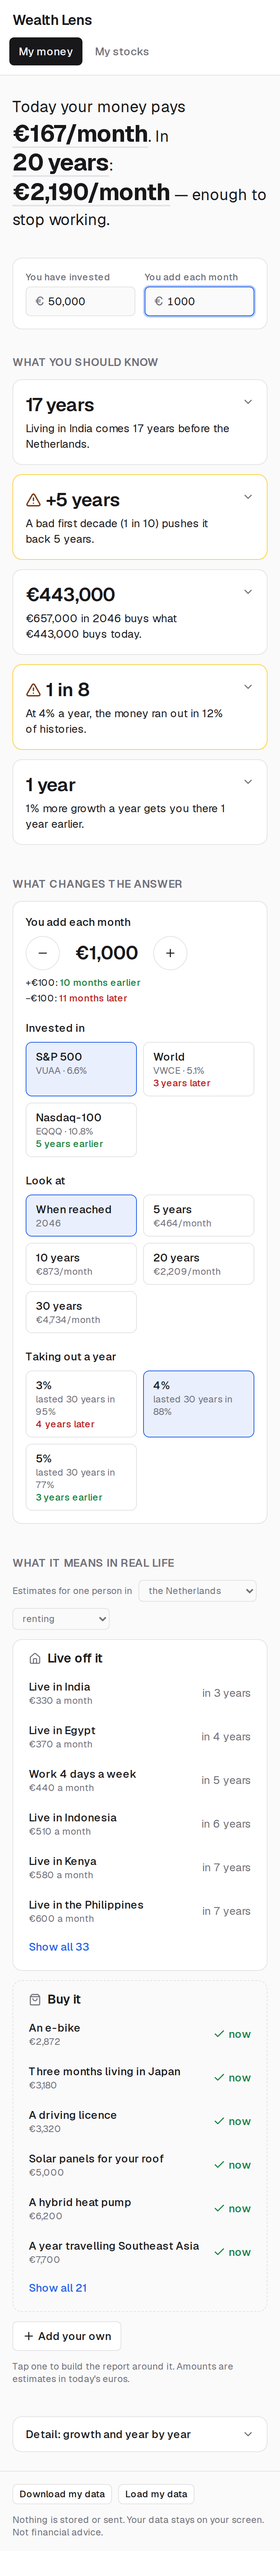
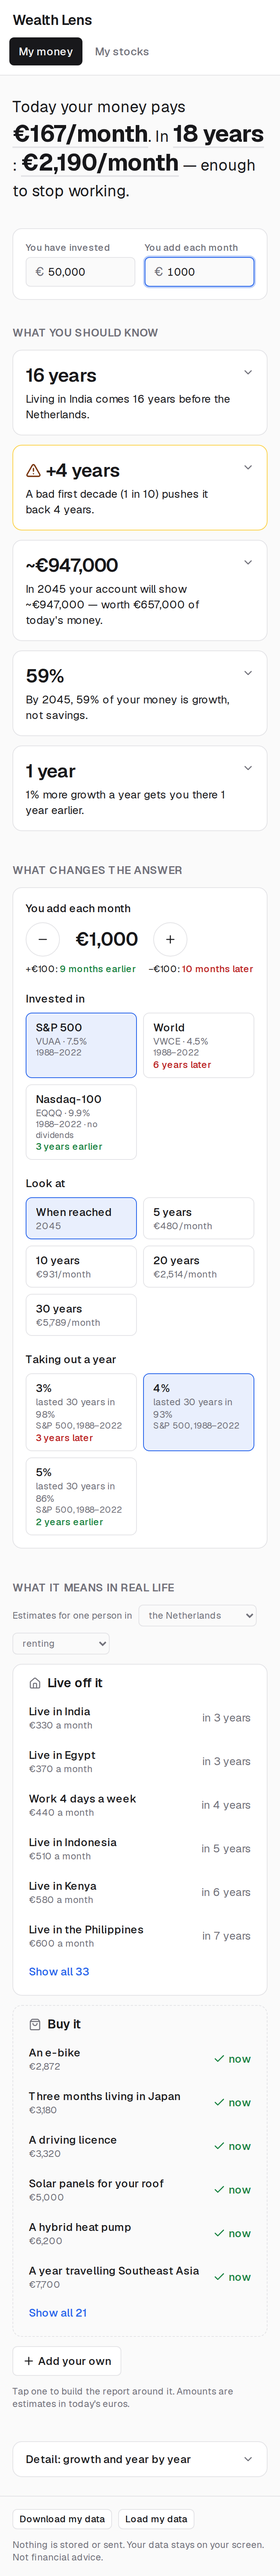
Screenshots and README with the 1988-2022 figures
The three profiles, re-taken at 360 px: the answer, the findings (the
inflation card in euros of that year) and the levers with their period.

Claude-Session: https://claude.ai/code/session_01D4XKtBepk1M5ngN7aQPhxj

diff --git a/projects/wealth-lens/README.md b/projects/wealth-lens/README.md
@@ -36,7 +36,7 @@ sostenido.
   el primero es su valor) y todo se recalcula al teclear, sin botón de
   calcular:
   1. **La respuesta**, una frase con 2-3 números grandes: "Today your
-     money pays €3/month. In 20 years: €330/month — enough to live in
+     money pays €3/month. In 19 years: €330/month — enough to live in
      India." Cada número se toca para ver de dónde sale.
   2. **What you should know:** 3-5 hallazgos ordenados por impacto, cada
      uno un número y una frase; al abrirlo, el cálculo y los supuestos.
